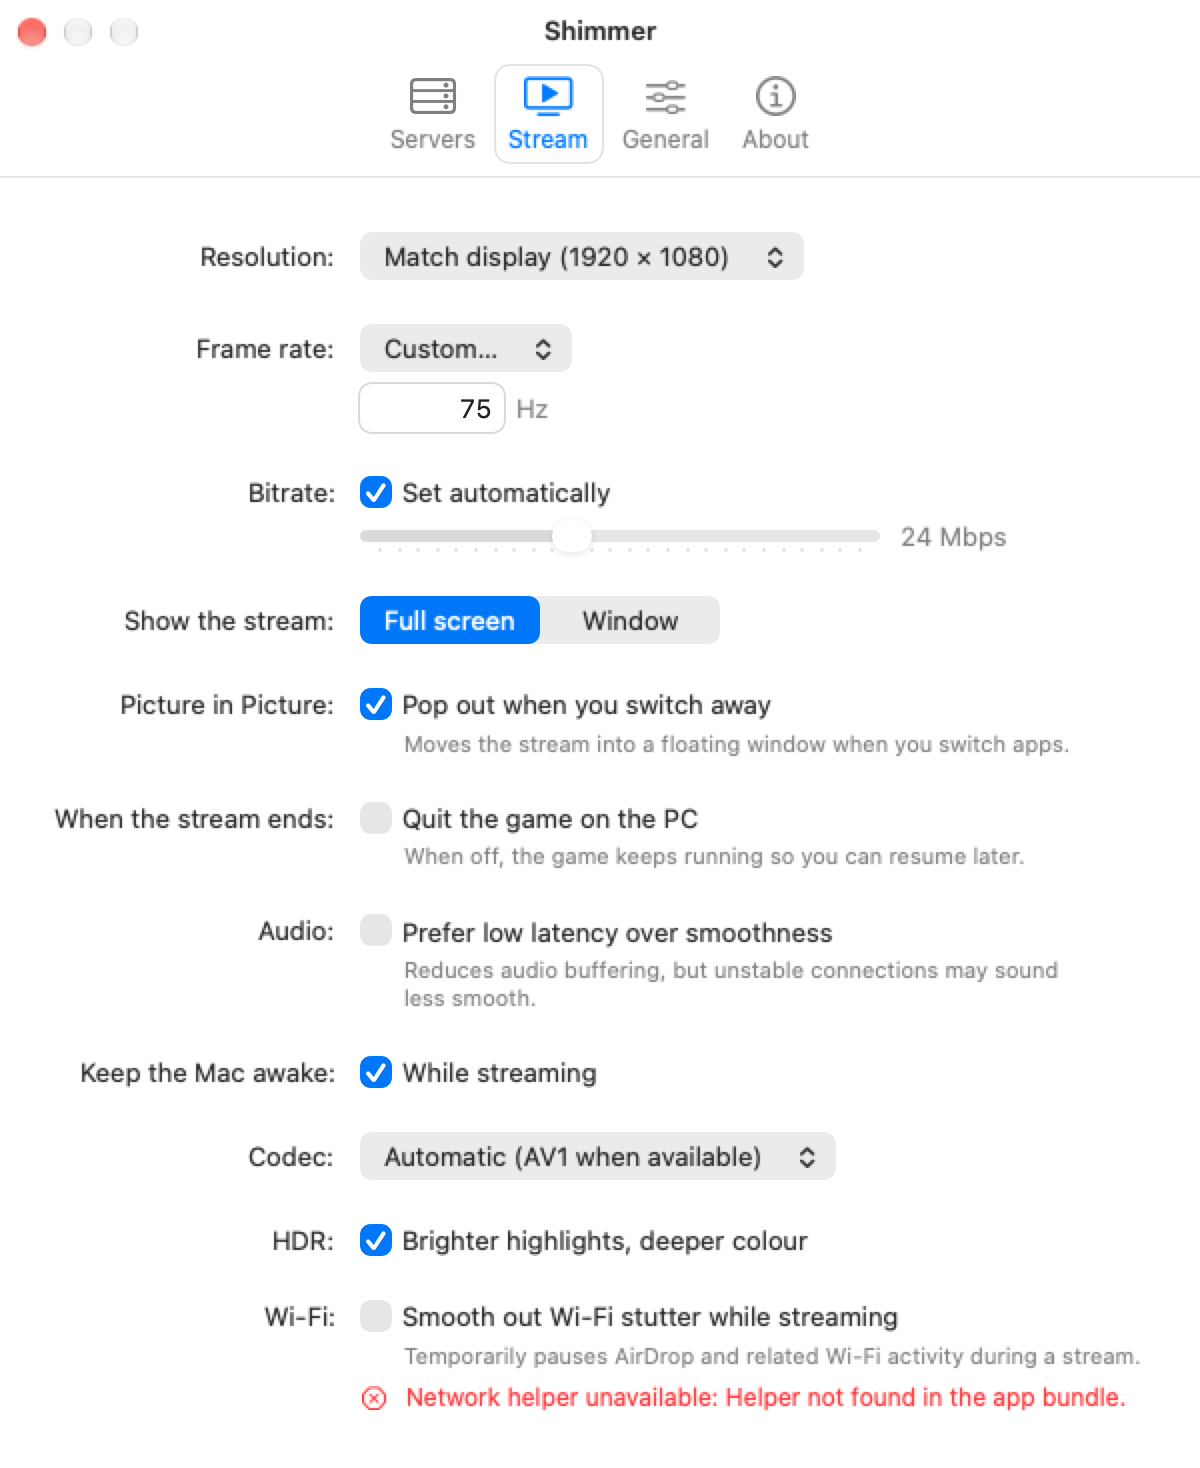
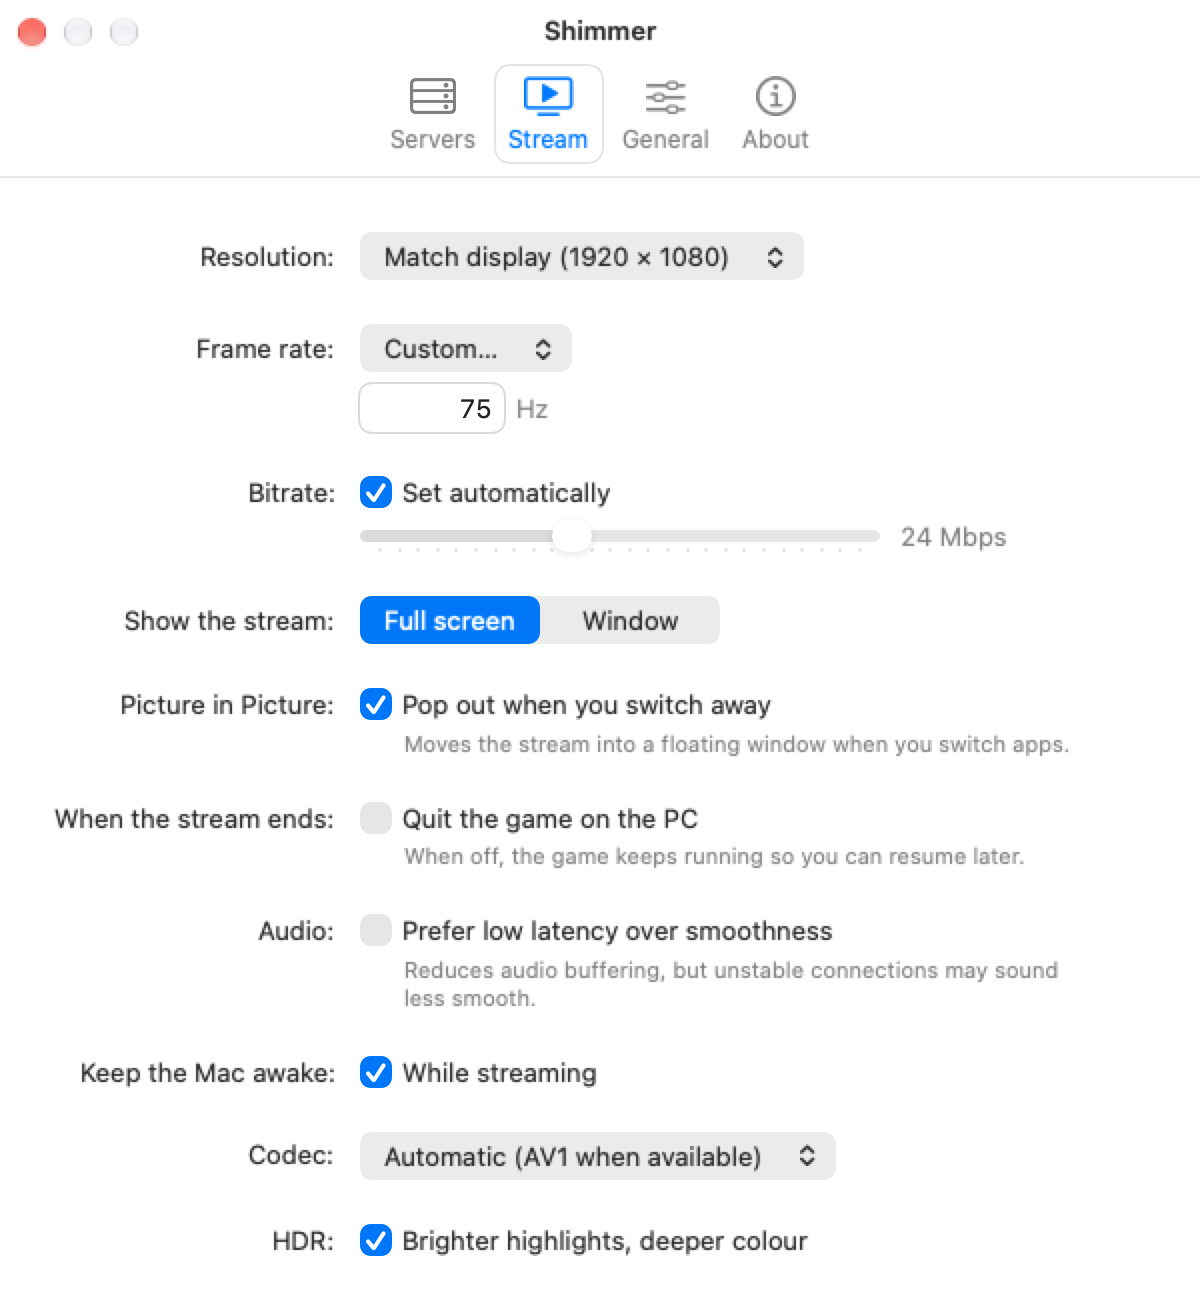
Rewrite the README and refresh its screenshots

diff --git a/README.md b/README.md
@@ -1,160 +1,81 @@
 <p align="center">
-  <img src="docs/assets/icon-512.png" width="140" alt="shimmer">
+  <img src="docs/assets/icon-512.png" width="140" alt="Shimmer">
 </p>
 
-# shimmer
+# Shimmer
 
-A Mac-native client for [Sunshine](https://github.com/LizardByte/Sunshine) that
-can pop the game out into macOS's floating **Picture in Picture** window - so it
-stays in a corner while you use other apps, and your controller keeps playing.
+A Mac client for [Sunshine](https://github.com/LizardByte/Sunshine) game
+streaming with Picture in Picture: the game floats in a corner while you use
+other apps, and your controller keeps playing.
 
-shimmer is a fork of [glimmer](https://github.com/Se7enbrc/glimmer) by
-[Se7enbrc](https://github.com/Se7enbrc): pure Swift, Apple Silicon only, the
-whole pipeline - socket, decoder, display, audio, input - in one process with no
-external player and no C engine. Everything glimmer does, shimmer does. The name
-is a nod to the moonlight → sunshine → glimmer lineage it sits in.
+Shimmer is a fork of [glimmer](https://github.com/Se7enbrc/glimmer) by
+[Se7enbrc](https://github.com/Se7enbrc). macOS 26+, Apple Silicon.
 
 <p align="center">
-  <img src="docs/assets/servers.png" width="600" alt="Shimmer's Servers tab: a paired PC, its apps with Stream buttons, and a latency graph">
+  <img src="docs/assets/servers.png" width="600" alt="The Servers tab: a paired PC, its apps, and a latency graph">
 </p>
 
-## What shimmer adds
+## What it adds to glimmer
 
-- **Picture in Picture.** Press **⌃⌥P** during a stream, or choose Picture in
-  Picture from the menu bar, and the game moves into the same floating,
-  corner-snapping window macOS uses for movies - on top of your other apps,
-  Spaces and full-screen windows. It's fed by the very layer the full-screen
-  window paints into, so there is no second decode path and no extra latency.
-  Controllers keep driving the game from the corner; keyboard and mouse stay
-  with whatever app is frontmost, the way any PiP video behaves.
-- **Pop out automatically** when you switch away from the stream (Stream ›
-  Picture in Picture, on by default). Close the PiP window and the stream waits
-  in the background; the Dock icon or the menu bar brings it back.
-- **The mouse over the PiP window drives the host pointer** 1:1 (a click on the
-  picture clicks there; dragging the window never reaches the host).
-- **Works around two macOS AVKit bugs** in sample-buffer PiP that would
-  otherwise show only the bottom-left corner of the picture (Apple
-  FB22411168). Design notes and the manual test plan are in
-  [`docs/design/`](docs/design/).
-- **One window, laid out like a native Mac utility.** Servers, Stream, General
-  and About tabs replace the separate launcher and Settings windows. Servers
-  lists your paired PCs and the ones nearby, pairs them in place, shows each
-  PC's apps with Stream and Resume buttons, and can measure latency over the
-  link you're on - Wi-Fi, Ethernet or Tailscale.
-- **A menu bar item that shows what's playing.** While you stream, the icon is
-  the app you're streaming, with your DualSense's battery level; the menu has
-  End Stream and Picture in Picture. It can hide itself when you're not
-  streaming.
-- **Home and away.** Give a PC a second address (its Tailscale address, say)
-  and Shimmer falls back to it when the home address isn't reachable. A stream
-  that drops because the Mac slept or changed networks doesn't leave a stale
-  error behind.
-- **`shimmerctl`**, a command-line tool that checks why a PC isn't reachable,
-  reads the logs, and runs test streams - locally or on another Mac over SSH.
-  See [docs/CLI.md](docs/CLI.md).
-- Smaller things: a Linux / Windows / SteamOS logo per PC, a switch to stop
-  sending the mouse, and keeping the Mac awake while you stream.
+- **Picture in Picture.** Press ⌃⌥P during a stream and the game moves into
+  the system PiP window, over other apps, Spaces and full-screen windows. It
+  can also pop out on its own when you switch apps. The mouse over the PiP
+  window moves the PC's pointer.
+- **One window.** Servers, Stream, General and About tabs. Servers lists your
+  PCs and the ones nearby, pairs them in place, shows each PC's apps, and can
+  measure latency.
+- **Menu bar.** Shows the connected controller and its battery, or the app
+  you're streaming. End Stream and Picture in Picture are in its menu.
+- **A second address per PC,** such as a Tailscale address, used when the
+  home address isn't reachable.
+- **`shimmerctl`,** a command-line tool a coding agent can use to check and
+  fix the app. See [docs/CLI.md](docs/CLI.md).
+
+Shimmer is based on glimmer 2026.9.0, with fixes ported from later glimmer
+releases. glimmer has moved on since and has features Shimmer doesn't, such as
+iOS apps and its own Mini Player.
 
 <p align="center">
-  <img src="docs/assets/stream-settings.png" width="600" alt="Shimmer's Stream settings">
+  <img src="docs/assets/stream-settings.png" width="600" alt="The Stream settings tab">
 </p>
 
-### Relationship to glimmer
+## What it inherits from glimmer
 
-shimmer is based on glimmer 2026.9.0, plus fixes ported from later glimmer
-releases (AV1 from AMD encoders, DualSense identity at stream start, packet
-source checks, private logs, stream reliability). glimmer has kept moving
-since - it now has its own floating Mini Player, iOS apps, and a separate
-streaming engine framework. Merging those back in is planned; until then, if
-you don't need macOS's system Picture in Picture, glimmer itself is the more
-actively maintained choice.
-
-## What you get
-
-- **Video.** Hardware-decoded H.264, HEVC, and AV1, 8- and 10-bit, with a real
-  PQ/HLG HDR pipeline. Up to 4K 240 Hz.
-- **Pacing.** Locks the display to the stream cadence, runs passthrough on a
-  clean link, buffers only for measured jitter. Tuned against per-frame
-  telemetry.
-- **Audio.** Opus through AVAudioEngine with a small adaptive cushion, so device
-  switches and rough Wi-Fi don't crackle.
-- **Controllers.** Xbox and DualSense: rumble, trigger rumble, gyro, touchpad,
-  battery, light bar - whatever the pad has. Hold-to-quit chord. An optional
-  raw-input mode (off by default, needs Input Monitoring) adds the DualSense
-  buttons macOS hides and the host's adaptive-trigger effects.
-- **Mouse and keyboard.** Raw 1:1 aim with the Mac's pointer acceleration
-  removed, a velocity-gated boost on fast flicks, optional ⌘-shortcut
-  forwarding.
-- **Hosts.** mDNS discovery, PIN pairing, hosts by IP or name (Tailscale works),
-  one-time import of moonlight-qt pairings.
-- **Mac things.** Menu bar item, display-matched quality presets, stats overlay,
-  hotkeys.
-
-Nothing leaves your Mac. Diagnostics are off by default and write local files
-under `~/Library/Logs/Shimmer`.
-
-## Install
-
-macOS 26+, Apple Silicon. Build from source (below) - shimmer isn't in a
-Homebrew tap yet, and it does not auto-update (the upstream update feed is
-deliberately disconnected so a shimmer build never replaces itself with stock
-glimmer).
-
-Signed ad-hoc when built locally, not sandboxed, not on the App Store
-([docs/SECURITY.md](docs/SECURITY.md)).
-
-Your host needs Sunshine and a display that can present the exact mode you ask
-for: a virtual display driver on Windows, a current Sunshine on Linux.
-[docs/HOST_SETUP.md](docs/HOST_SETUP.md).
+- Hardware-decoded H.264, HEVC and AV1, with HDR.
+- Xbox and DualSense controllers, including rumble, gyro and touchpad.
+- Mouse and keyboard forwarding.
+- PC discovery, PIN pairing, and import of moonlight-qt pairings.
 
 ## Build
 
-Xcode 26 (Swift 6) and Homebrew.
+There is no download yet. You need Xcode 26 and Homebrew.
 
 ```bash
 git clone https://github.com/slaughterhousesoftware/shimmer.git
 cd shimmer
 brew install openssl@3 opus
-make
+make local-signing-setup   # once, so macOS keeps permissions across rebuilds
+make                       # builds and installs /Applications/Shimmer.app
 ```
 
-`make` builds and installs `/Applications/Shimmer.app` the same way a release
-ships. `make app` compile-checks, `make test` runs the unit tests,
-`make uninstall` removes it. Without an Apple Developer ID, run
-`make local-signing-setup` once first: builds are then signed with a stable
-self-signed identity instead of ad hoc, so macOS keeps Input Monitoring
-across rebuilds. The engine is under `Glimmer/Stream/` (the source
-tree and Swift module keep glimmer's name; the app, bundle id
-`com.kevinbpatel.shimmer`, and data folders are Shimmer's). Upgrading from a
-glimmer install is automatic: on first launch Shimmer copies your pairings,
-preferences, and client identity forward, and leaves glimmer's untouched.
-[docs/ARCHITECTURE.md](docs/ARCHITECTURE.md),
-[docs/CONTRIBUTING.md](docs/CONTRIBUTING.md).
+`make test` runs the tests. `make uninstall` removes the app.
 
-## Why not Moonlight
+Your PC needs Sunshine: see [docs/HOST_SETUP.md](docs/HOST_SETUP.md).
 
-Moonlight is excellent and glimmer would not exist without it. But moonlight-qt
-is a Qt port of cross-platform C++, one layer from the hardware. glimmer - and so
-shimmer - talks to VideoToolbox, AVAudioEngine, and GameController directly;
-that is where the pacing, HDR, and controller work comes from, and it behaves
-like a Mac app because it is one. It is also why Picture in Picture was
-tractable here: the stream already renders through an
-`AVSampleBufferDisplayLayer`, which is exactly what macOS PiP takes as a source.
+## Known issues
 
-## Support
+- On macOS 27.2, the menu bar icon's menu doesn't open while another app is in
+  full screen.
 
-glimmer is free software written in spare time.
-[Sponsor its author on GitHub](https://github.com/sponsors/Se7enbrc) if it
-makes your setup better.
+## More
+
+- [docs/ARCHITECTURE.md](docs/ARCHITECTURE.md)
+- [docs/SECURITY.md](docs/SECURITY.md)
+- [docs/CONTRIBUTING.md](docs/CONTRIBUTING.md)
+- [CHANGELOG.md](CHANGELOG.md)
 
 ## License
 
-GPLv3. shimmer is a fork of glimmer, Copyright © 2026 ugfugl.io; shimmer's
-additions are Copyright © 2026 Kevin Patel and are released under the same
-license. See [LICENSE](LICENSE).
-
-The transport is ported from
-[moonlight-common-c](https://github.com/moonlight-stream/moonlight-common-c) and
-[moonlight-qt](https://github.com/moonlight-stream/moonlight-qt), both GPLv3, so
-glimmer is too, and so is shimmer. Full acknowledgment in
+GPLv3. glimmer is Copyright © 2026 ugfugl.io. Shimmer's additions are
+Copyright © 2026 Kevin Patel. See [LICENSE](LICENSE) and
 [CREDITS.md](CREDITS.md).
